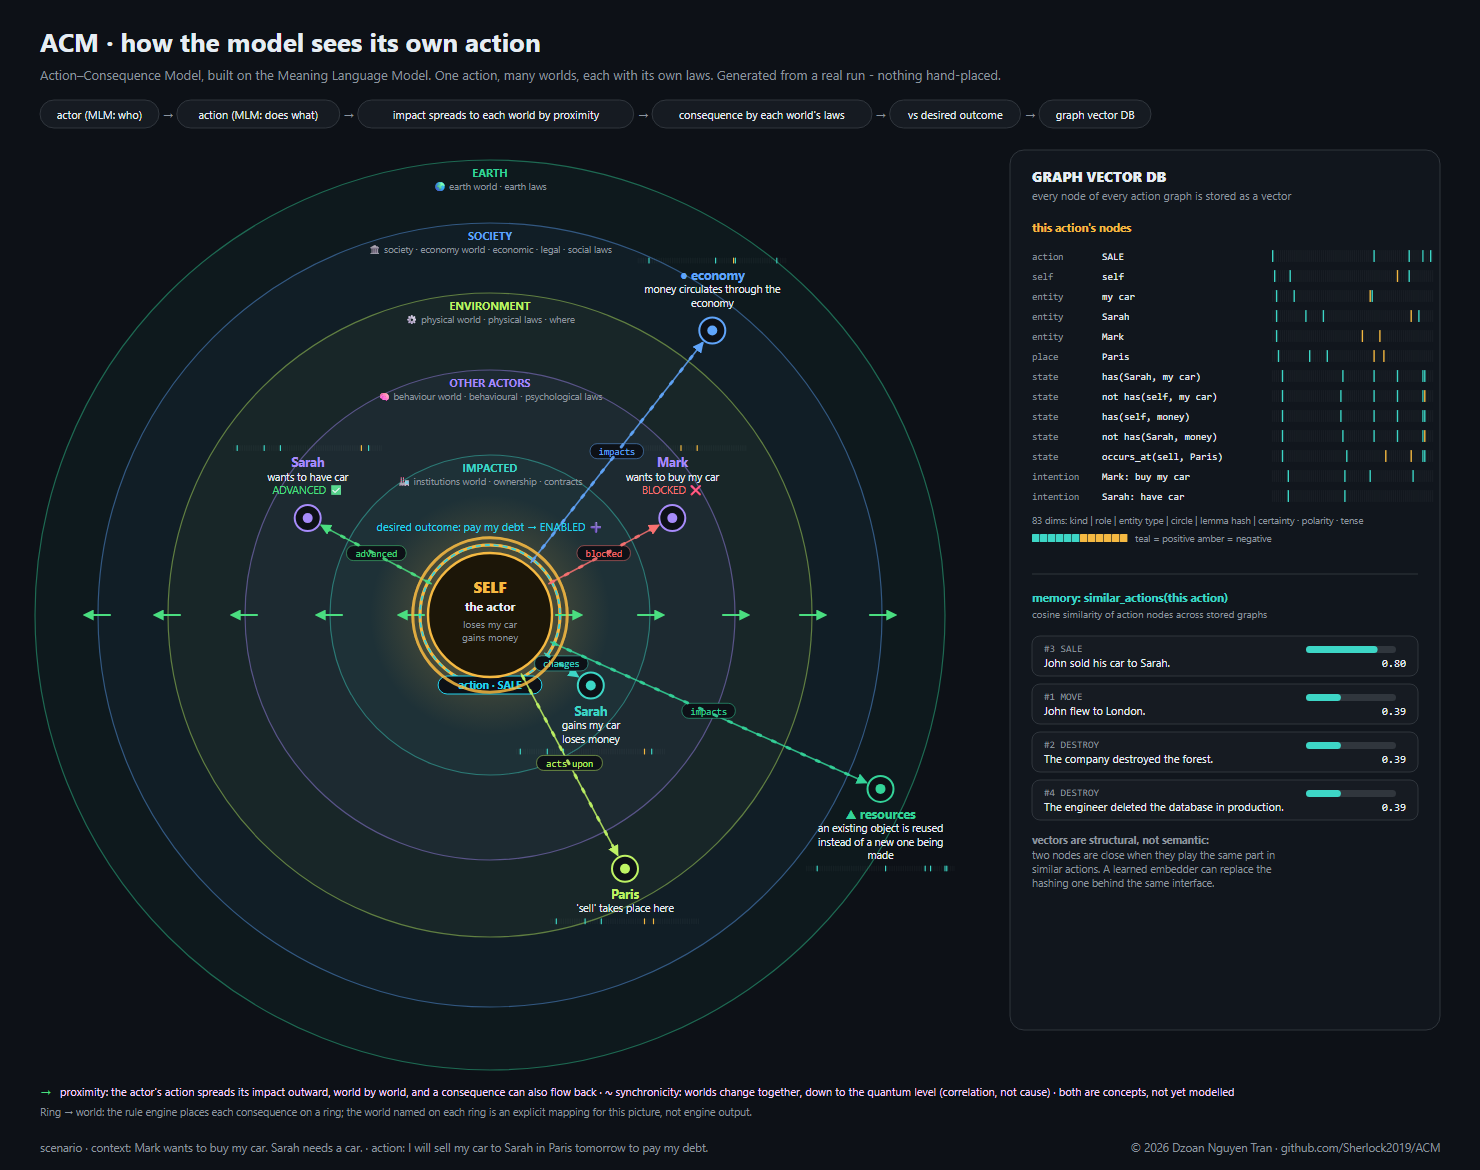
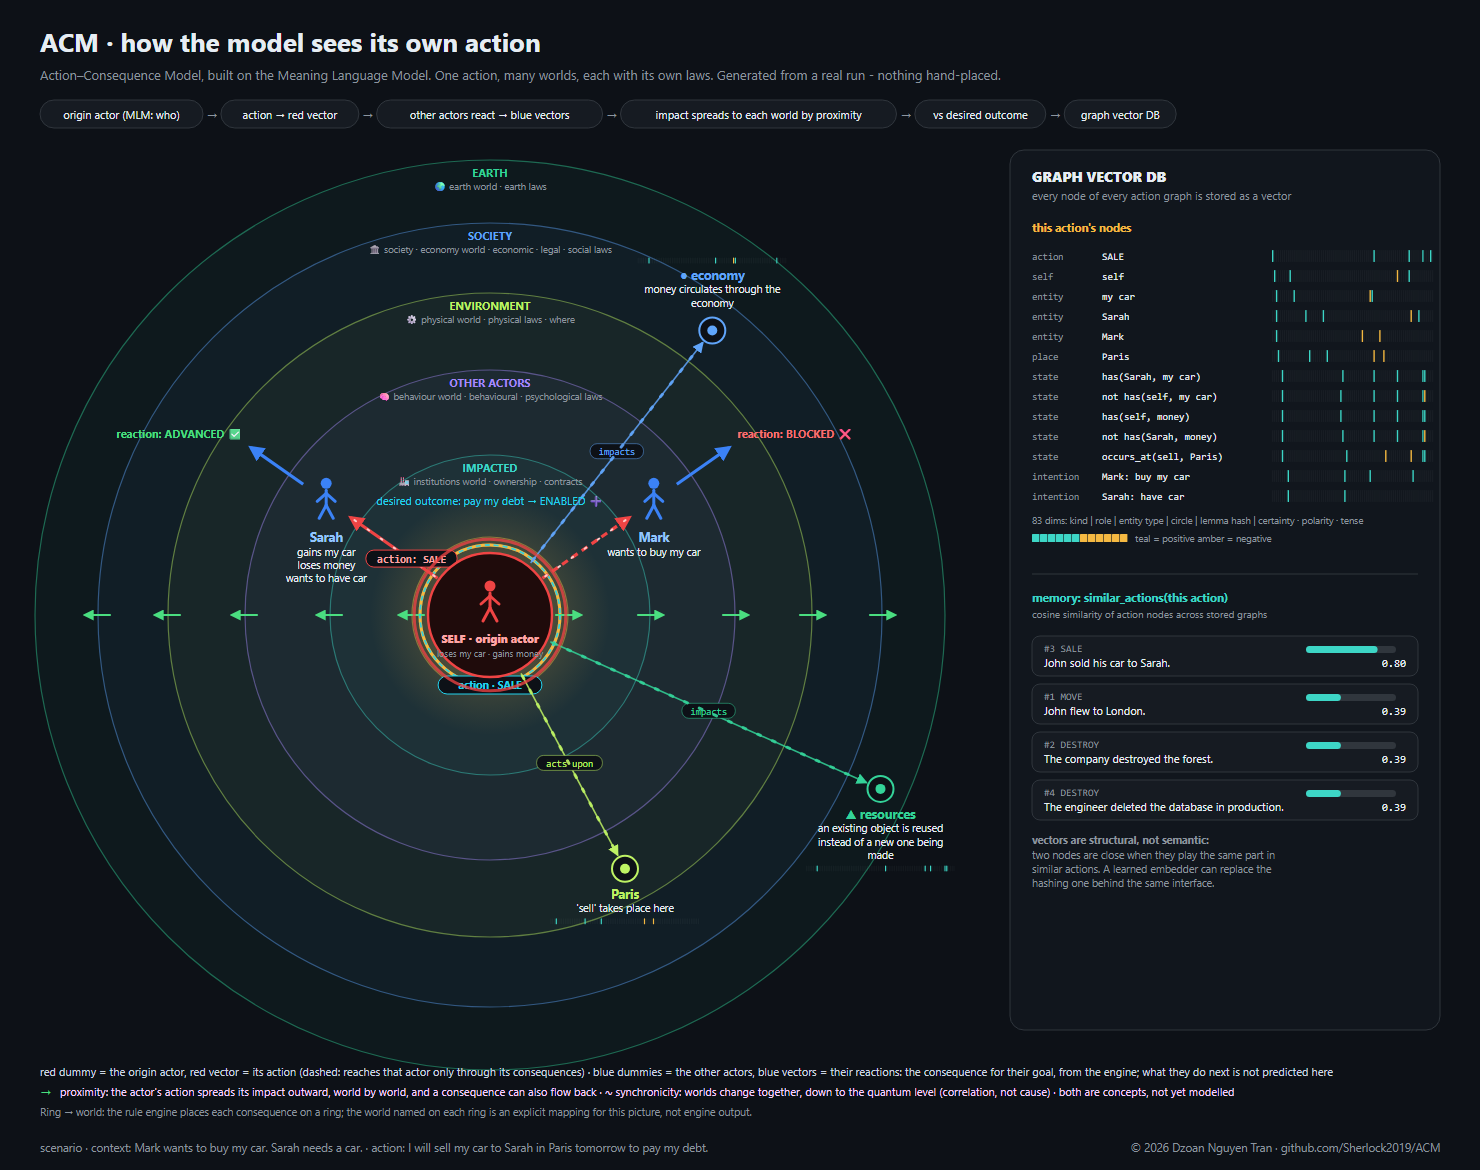
Vision map: origin actor as a red dummy with red action vectors; other actors as blue dummies with blue reaction vectors

diff --git a/scripts/draw_vision.py b/scripts/draw_vision.py
@@ -80,6 +80,22 @@ STATUS_COLOUR = {
     RelationStatus.HINDERED: "#fb923c",
 }
 DIRECTION_MARK = {"+": "▲", "-": "▼", "0": "●"}
+ACT, REACT = "#ef4444", "#3b82f6"   # the action vector, and the reaction vectors it triggers
+
+
+def dummy(x: float, y: float, s: float, colour: str) -> str:
+    """A small mannequin centred on (x, y): head, body, arms, legs."""
+    w = 3 * s
+    return (
+        f'<g stroke="{colour}" stroke-width="{w:.1f}" stroke-linecap="round" fill="none">'
+        f'<circle cx="{x:.1f}" cy="{y - 17 * s:.1f}" r="{5.5 * s:.1f}" fill="{colour}" stroke="none"/>'
+        f'<line x1="{x:.1f}" y1="{y - 10 * s:.1f}" x2="{x:.1f}" y2="{y + 5 * s:.1f}"/>'
+        f'<line x1="{x:.1f}" y1="{y - 7 * s:.1f}" x2="{x - 9 * s:.1f}" y2="{y + 1 * s:.1f}"/>'
+        f'<line x1="{x:.1f}" y1="{y - 7 * s:.1f}" x2="{x + 9 * s:.1f}" y2="{y + 1 * s:.1f}"/>'
+        f'<line x1="{x:.1f}" y1="{y + 5 * s:.1f}" x2="{x - 7 * s:.1f}" y2="{y + 18 * s:.1f}"/>'
+        f'<line x1="{x:.1f}" y1="{y + 5 * s:.1f}" x2="{x + 7 * s:.1f}" y2="{y + 18 * s:.1f}"/>'
+        f'</g>'
+    )
 
 
 def text(x, y, body, *, size=12, fill=INK, anchor="middle", weight=400, family="sans") -> str:
@@ -135,6 +151,11 @@ def main() -> int:
             f'<marker id="arrow-{name}" viewBox="0 0 10 10" refX="9" refY="5" markerWidth="7" markerHeight="7" orient="auto-start-reverse">'
             f'<path d="M0,0 L10,5 L0,10 z" fill="{colour}"/></marker>'
         )
+    for name, colour in (("act", ACT), ("react", REACT)):
+        svg.append(
+            f'<marker id="vec-{name}" viewBox="0 0 10 10" refX="8" refY="5" markerWidth="5" markerHeight="5" orient="auto">'
+            f'<path d="M0,0 L10,5 L0,10 z" fill="{colour}"/></marker>'
+        )
     for colour in ("#4ade80", "#fb923c"):
         svg.append(
             f'<marker id="ripple-{colour[1:]}" viewBox="0 0 10 10" refX="7" refY="5" markerWidth="5" markerHeight="5" orient="auto">'
@@ -153,8 +174,8 @@ def main() -> int:
                      "Generated from a real run - nothing hand-placed.",
              size=13, fill=MUTED, anchor="start")
     )
-    steps = ["actor (MLM: who)", "action (MLM: does what)", "impact spreads to each world by proximity",
-             "consequence by each world's laws", "vs desired outcome", "graph vector DB"]
+    steps = ["origin actor (MLM: who)", "action → red vector", "other actors react → blue vectors",
+             "impact spreads to each world by proximity", "vs desired outcome", "graph vector DB"]
     x = 40
     for i, step in enumerate(steps):
         width = 18 + len(step) * 6.3
@@ -230,21 +251,22 @@ def main() -> int:
                 return (inner + ring[3]) / 2 + 4, ring[4]
         raise KeyError(target)
 
-    placed: list[tuple[Target, str, list[str], str, str | None, str]] = []
+    # The other actors share the origin actor's space: each is drawn as a dummy next to it,
+    # reached by the action (red) and answering with a reaction (blue). In this scenario the
+    # impacted entities are people, so they are merged with the other actors by name.
+    people: dict[str, dict] = {}
     for who, texts in _group(report, Target.IMPACTED).items():
-        placed.append((Target.IMPACTED, who, texts, "e:" + who.lower(), None, "changes"))
+        p = people.setdefault(who, {"lines": [], "direct": False, "status": None, "reaction": None})
+        p["lines"] += texts
+        p["direct"] = True
     for relation in report.other_relations():
         verb = "wants to" if relation.intention.kind == "goal" else "did:"
-        placed.append(
-            (
-                Target.OTHER_ACTORS,
-                relation.intention.owner_label,
-                [f"{verb} {relation.intention.text}", status_word(relation)],
-                f"e:{relation.intention.owner}",
-                relation.status.value if relation.status in STATUS_COLOUR else None,
-                relation.status.value.replace("_", " "),
-            )
-        )
+        p = people.setdefault(relation.intention.owner_label, {"lines": [], "direct": False, "status": None, "reaction": None})
+        p["lines"].append(f"{verb} {relation.intention.text}")
+        p["status"] = relation.status
+        p["reaction"] = f"reaction: {status_word(relation)}"
+
+    placed: list[tuple[Target, str, list[str], str, str | None, str]] = []
     for where, texts in _group(report, Target.ENVIRONMENT).items():
         placed.append((Target.ENVIRONMENT, where, texts, "e:" + where.lower(), None, "acts upon"))
     for target in (Target.SOCIETY, Target.EARTH):
@@ -314,19 +336,65 @@ def main() -> int:
             strip_y = row + 6 if below > 0 else ty - 22
             svg.append(heat_strip(nx - len(vector) * 0.9, strip_y, vector, cell=1.8, height=6))
 
-    # -- the core: the actor and its action ---------------------------------
+    # -- the other actors in the same space: action in red, reactions in blue --------------
+    person_angles = [215, -35, 125, 305]
+    t_act, t_react = 0.10, 0.24
+    for i, (who, p) in enumerate(people.items()):
+        ang = math.radians(person_angles[i % len(person_angles)])
+        r_p = 200
+        px_, py_ = CX + r_p * math.cos(ang), CY + r_p * math.sin(ang)
+        ux, uy = math.cos(ang), math.sin(ang)
+        # red: the origin actor's action reaching this actor (dashed when it reaches them only
+        # through its consequences rather than acting on them directly)
+        sx, sy = CX + ux * 64, CY + uy * 64
+        ex, ey = px_ - ux * 30, py_ - uy * 30
+        dash = "" if p["direct"] else ' stroke-dasharray="7 5"'
+        svg.append(f'<line x1="{sx:.1f}" y1="{sy:.1f}" x2="{ex:.1f}" y2="{ey:.1f}" stroke="{ACT}" stroke-width="3.2" '
+                   f'marker-end="url(#vec-act)"{dash}>{flash("stroke-width", 6, t_act, 3.2)}</line>')
+        svg.append(f'<line x1="{sx:.1f}" y1="{sy:.1f}" x2="{ex:.1f}" y2="{ey:.1f}" stroke="#fecaca" stroke-width="2" '
+                   f'stroke-linecap="round" stroke-dasharray="2 14"><animate attributeName="stroke-dashoffset" '
+                   f'from="16" to="0" dur="0.7s" repeatCount="indefinite"/></line>')
+        if i == 0:
+            mx, my = sx + (ex - sx) * 0.3, sy + (ey - sy) * 0.3
+            act_txt = f"action: {report.concept or report.predicate}"
+            svg.append(f'<rect x="{mx - len(act_txt) * 3.3 - 6:.1f}" y="{my - 10:.1f}" width="{len(act_txt) * 6.6 + 12:.1f}" '
+                       f'height="17" rx="8" fill="{BG}" stroke="{ACT}"/>')
+            svg.append(text(mx, my + 3, act_txt, size=10.5, fill="#fca5a5", weight=700, family="mono"))
+        # the actor as a dummy, pulsing when the action reaches it
+        colour = STATUS_COLOUR.get(p["status"], "#a78bfa") if p["status"] else "#a78bfa"
+        svg.append(f'<circle cx="{px_:.1f}" cy="{py_:.1f}" r="24" fill="none" stroke="{ACT}" stroke-width="2.5" '
+                   f'stroke-opacity="0">{flash("r", 38, t_act + 0.03, 24)}{flash("stroke-opacity", 0.9, t_act + 0.03)}</circle>')
+        svg.append(dummy(px_, py_, 1.0, REACT))
+        # blue: this actor's reaction, carrying the consequence onward
+        bx0, by0 = px_ + ux * 28, py_ + uy * 28
+        bx1, by1 = px_ + ux * 92, py_ + uy * 92
+        svg.append(f'<line x1="{bx0:.1f}" y1="{by0:.1f}" x2="{bx1:.1f}" y2="{by1:.1f}" stroke="{REACT}" stroke-width="3.2" '
+                   f'marker-end="url(#vec-react)">{flash("stroke-width", 6, t_react, 3.2)}</line>')
+        svg.append(f'<circle cx="{px_:.1f}" cy="{py_:.1f}" r="24" fill="none" stroke="{REACT}" stroke-width="2.5" '
+                   f'stroke-opacity="0">{flash("r", 40, t_react, 24)}{flash("stroke-opacity", 0.9, t_react)}</circle>')
+        # labels: name and consequences beside the dummy, the reaction at the tip of the blue vector
+        lab_y = py_ + 42
+        svg.append(text(px_, lab_y, who, size=12.5, fill="#93c5fd", weight=700))
+        for j, line in enumerate(p["lines"]):
+            svg.append(text(px_, lab_y + 14 + j * 13, line, size=10.5))
+        if p["reaction"]:
+            tip_x, tip_y = bx1 + ux * 10, by1 + uy * 10
+            anchor = "start" if ux > 0.2 else ("end" if ux < -0.2 else "middle")
+            svg.append(text(tip_x, tip_y - 4, p["reaction"], size=11, fill=colour, anchor=anchor, weight=700))
+
+    # -- the core: the origin actor, as a dummy ------------------------------
     svg.append(
-        f'<circle cx="{CX}" cy="{CY}" r="62" fill="none" stroke="#f5b942" stroke-width="3" stroke-opacity="0">'
+        f'<circle cx="{CX}" cy="{CY}" r="62" fill="none" stroke="{ACT}" stroke-width="3" stroke-opacity="0">'
         f'{flash("r", 80, 0.03, 62)}{flash("stroke-opacity", 1, 0.03)}</circle>'
     )
-    svg.append(f'<circle cx="{CX}" cy="{CY}" r="62" fill="#1c1608" stroke="#f5b942" stroke-width="2.4"/>')
-    svg.append(text(CX, CY - 22, "SELF" if report.self_view else (report.actor_label or "?"), size=15, fill="#f5b942", weight=800))
-    svg.append(text(CX, CY - 4, "the actor", size=12, weight=700))
+    svg.append(f'<circle cx="{CX}" cy="{CY}" r="62" fill="#1f0b0b" stroke="{ACT}" stroke-width="2.4"/>')
+    svg.append(dummy(CX, CY - 12, 1.0, ACT))
+    svg.append(text(CX, CY + 28, ("SELF" if report.self_view else (report.actor_label or "?")) + " · origin actor",
+                    size=11, fill="#fca5a5", weight=800))
     actor_lines = [c.text for c in report.for_target(Target.ACTOR)]
-    for i, line in enumerate(actor_lines[:2]):
-        svg.append(text(CX, CY + 13 + i * 13, line, size=10, fill=MUTED))
+    svg.append(text(CX, CY + 42, " · ".join(actor_lines[:2]), size=9, fill=MUTED))
     for relation in report.own_goals()[:1]:
-        svg.append(text(CX, CY - 84, f"desired outcome: {relation.intention.text} → {status_word(relation)}", size=11, fill="#22d3ee"))
+        svg.append(text(CX, CY - 110, f"desired outcome: {relation.intention.text} → {status_word(relation)}", size=11, fill="#22d3ee"))
 
     # -- right panel: the graph vector DB ------------------------------------
     px, pw = 1010, 430
@@ -382,6 +450,9 @@ def main() -> int:
     svg.append(text(60, ly, "proximity: the actor's action spreads its impact outward, world by world, and a consequence can also flow back   ·   "
                             "∿ synchronicity: worlds change together, down to the quantum level (correlation, not cause)   ·   "
                             "both are concepts, not yet modelled", size=11, fill="#f5d0fe", anchor="start"))
+    svg.append(text(40, ly - 20, "red dummy = the origin actor, red vector = its action (dashed: reaches that actor only through its consequences)   ·   "
+                                 "blue dummies = the other actors, blue vectors = their reactions: the consequence for their goal, from the engine; what they do next is not predicted here",
+                    size=11, fill="#cbd5e1", anchor="start"))
     svg.append(text(40, ly + 20, "Ring → world: the rule engine places each consequence on a ring; the world named on each ring "
                                  "is an explicit mapping for this picture, not engine output.", size=10.5, fill=MUTED, anchor="start"))
 

diff --git a/README.md b/README.md
@@ -90,8 +90,11 @@ ACM becomes a check an agent can run before it acts.
 
 ![How ACM sees an action: the actor at the centre, the action around it, and the impact spreading outward world by world](docs/acm-vision.svg)
 
-*Animated: the actor acts, and the impact of the action spreads outward world by world by
-proximity, each ring lighting up as the wave reaches it. Generated by
+*Animated: the origin actor (red dummy) acts; its action (red vectors) reaches the other
+actors in the same space (blue dummies), whose reactions (blue vectors) carry the
+consequence onward; and the impact spreads outward world by world by proximity, each ring
+lighting up as the wave reaches it. A reaction here is the consequence for that actor's
+goal (advanced, blocked), computed by the engine; what they do next is not predicted. Generated by
 [`scripts/draw_vision.py`](scripts/draw_vision.py) from a real run of the rule engine: the
 MLM parser plus the ACM engine, nothing placed by hand. The rule engine places each
 consequence on a ring; the world named on each ring is an explicit mapping for the picture.
